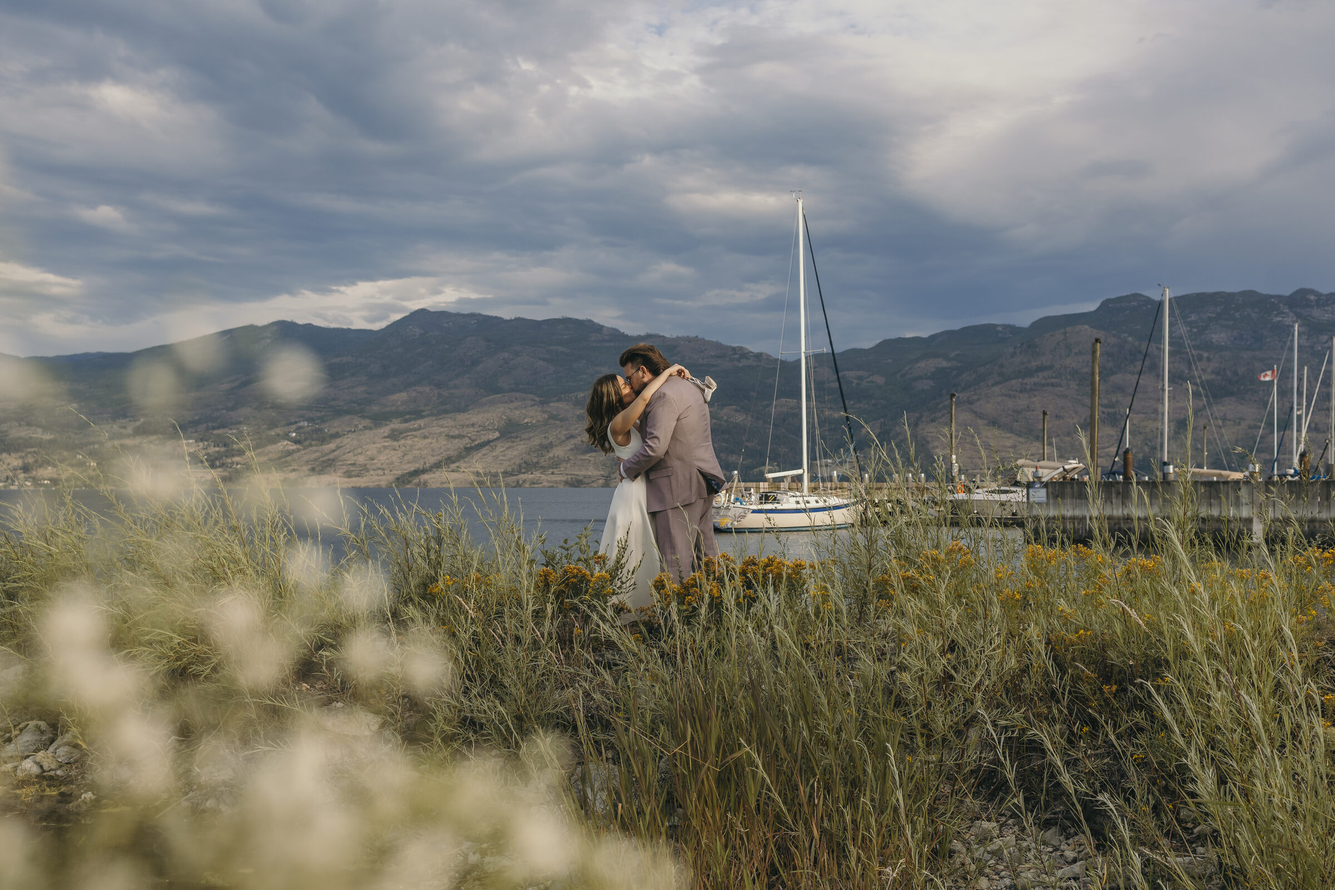
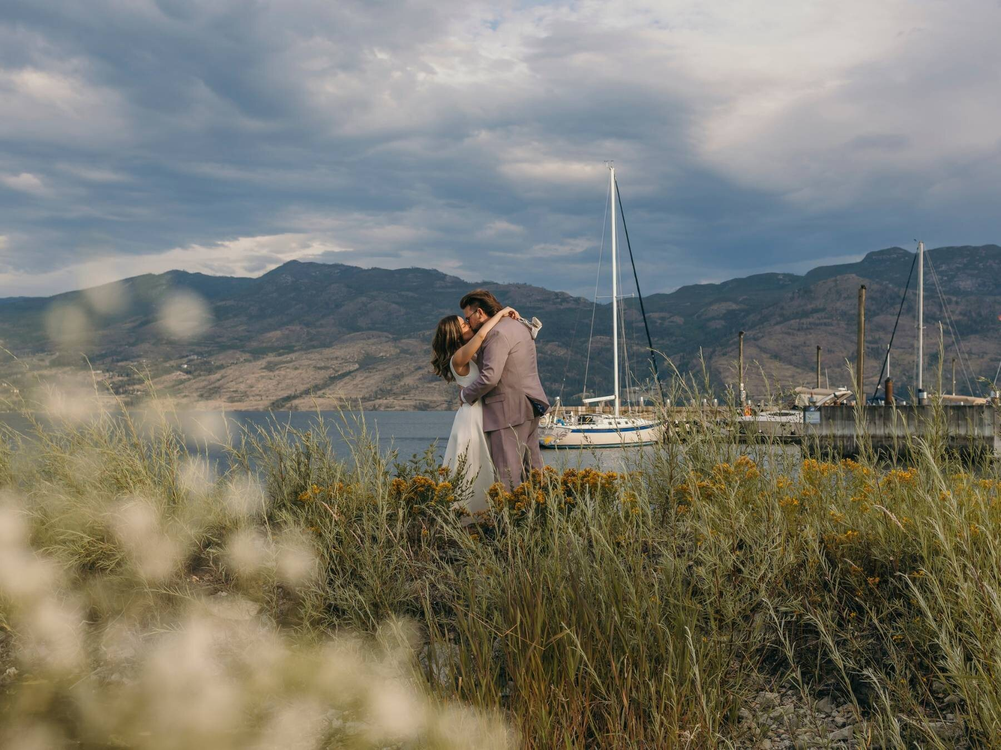
update site

diff --git a/src/components/Hero.jsx b/src/components/Hero.jsx
@@ -5,8 +5,8 @@ const Hero = () => (
     <img
       className="hero__image"
       src={heroImage}
-      width="2400"
-      height="1600"
+      width="1800"
+      height="1350"
       alt="A bride and groom kissing among wildflowers beside a marina, mountains and stormy skies behind them"
       fetchPriority="high"
     />
